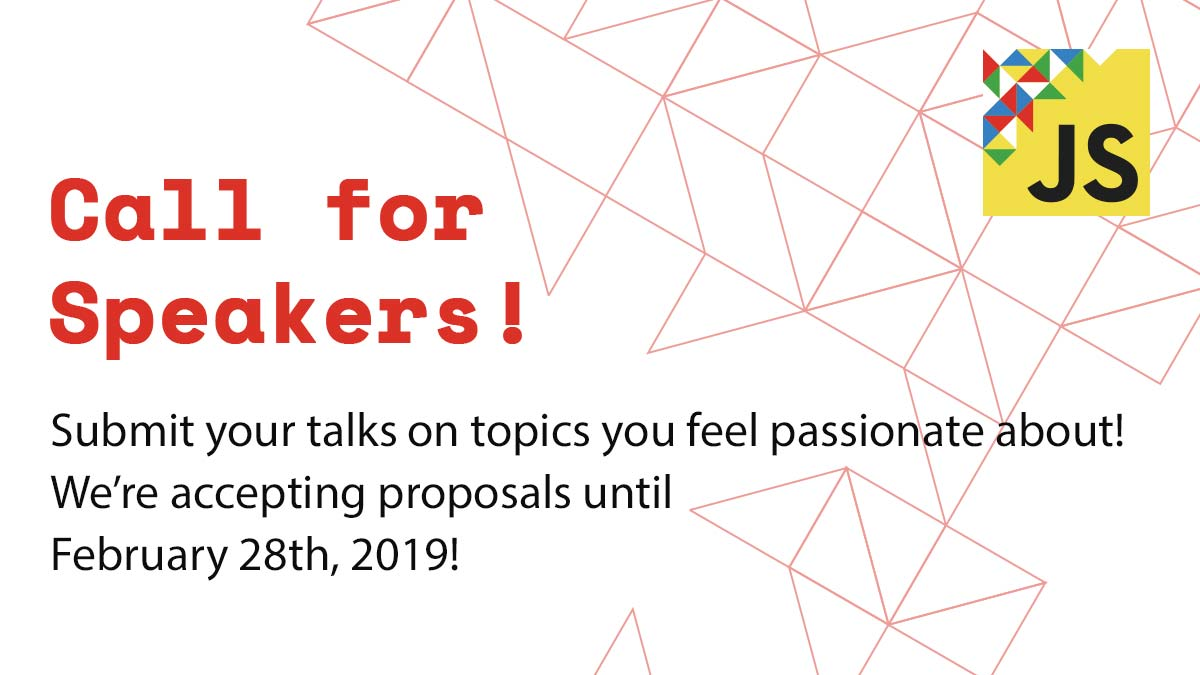
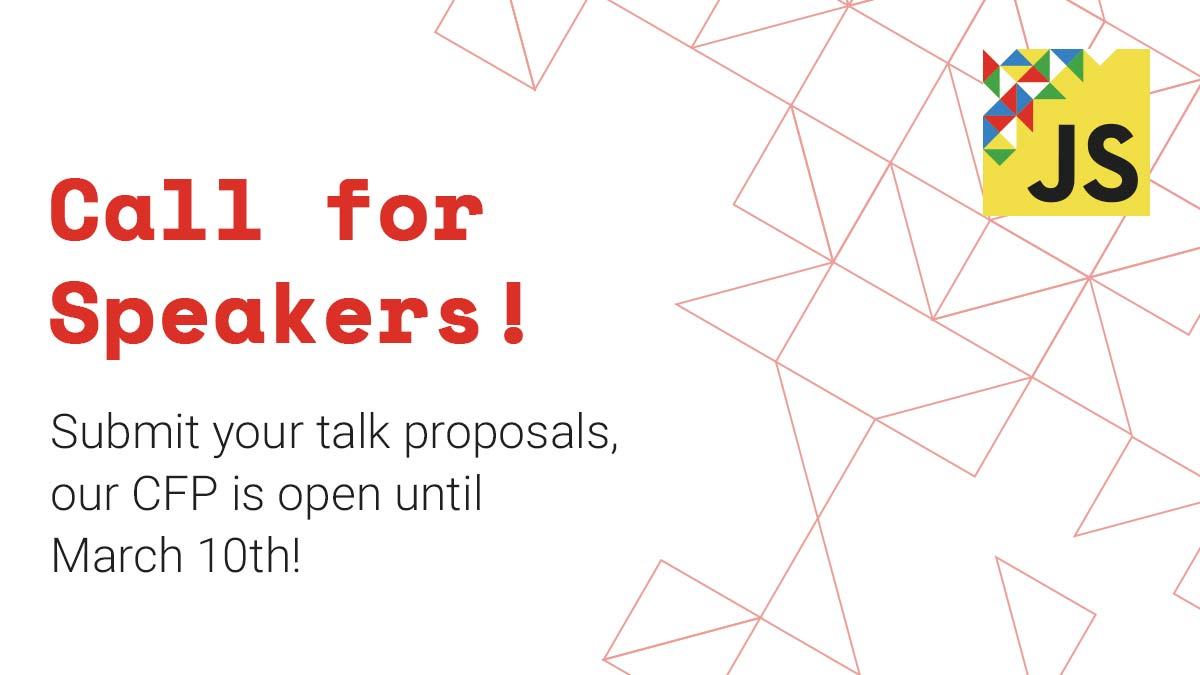
update cfp deadline

diff --git a/src/pages/call-for-speakers.js b/src/pages/call-for-speakers.js
@@ -34,9 +34,12 @@ const CallForSpeakers = () => (
         upcoming JSConf Budapest (September 26-27, 2019, Budapest, Hungary).
       </p>
       <p>
-        This Call for Speakers closes on <strong>February 28th, 2019</strong>!
+        This Call for Speakers closes on <strikethrough>February 28th,
+          2019</strikethrough> <strong>March 10th, 2019</strong>!
       </p>
-
+      <p>
+        <strong>We extend the CFP closing date to March 10, so participants in the <a href="https://www.globaldiversitycfpday.com/">Global Diversity CFP Day</a> have time to submit their first CFP</strong>!
+      </p>
       <CFP_Button />
 
       <h3>Topics</h3>
@@ -125,7 +128,7 @@ const CallForSpeakers = () => (
       <h3>Guidelines</h3>
       <p>
         Submit your proposal by{' '}
-        <strong>February 28th 2019, 23:59:59 CEST</strong>.
+        <strong>March 10th 2019, 23:59:59 CEST</strong>.
       </p>
       <p>All talks are in English.</p>
       <p>

diff --git a/src/pages/simpletext.module.scss b/src/pages/simpletext.module.scss
@@ -91,6 +91,10 @@
         font-weight: 700;
     }
 
+    & strikethrough {
+        text-decoration: line-through;
+        opacity: .5;
+    }
 }
 
 .team_grid {
